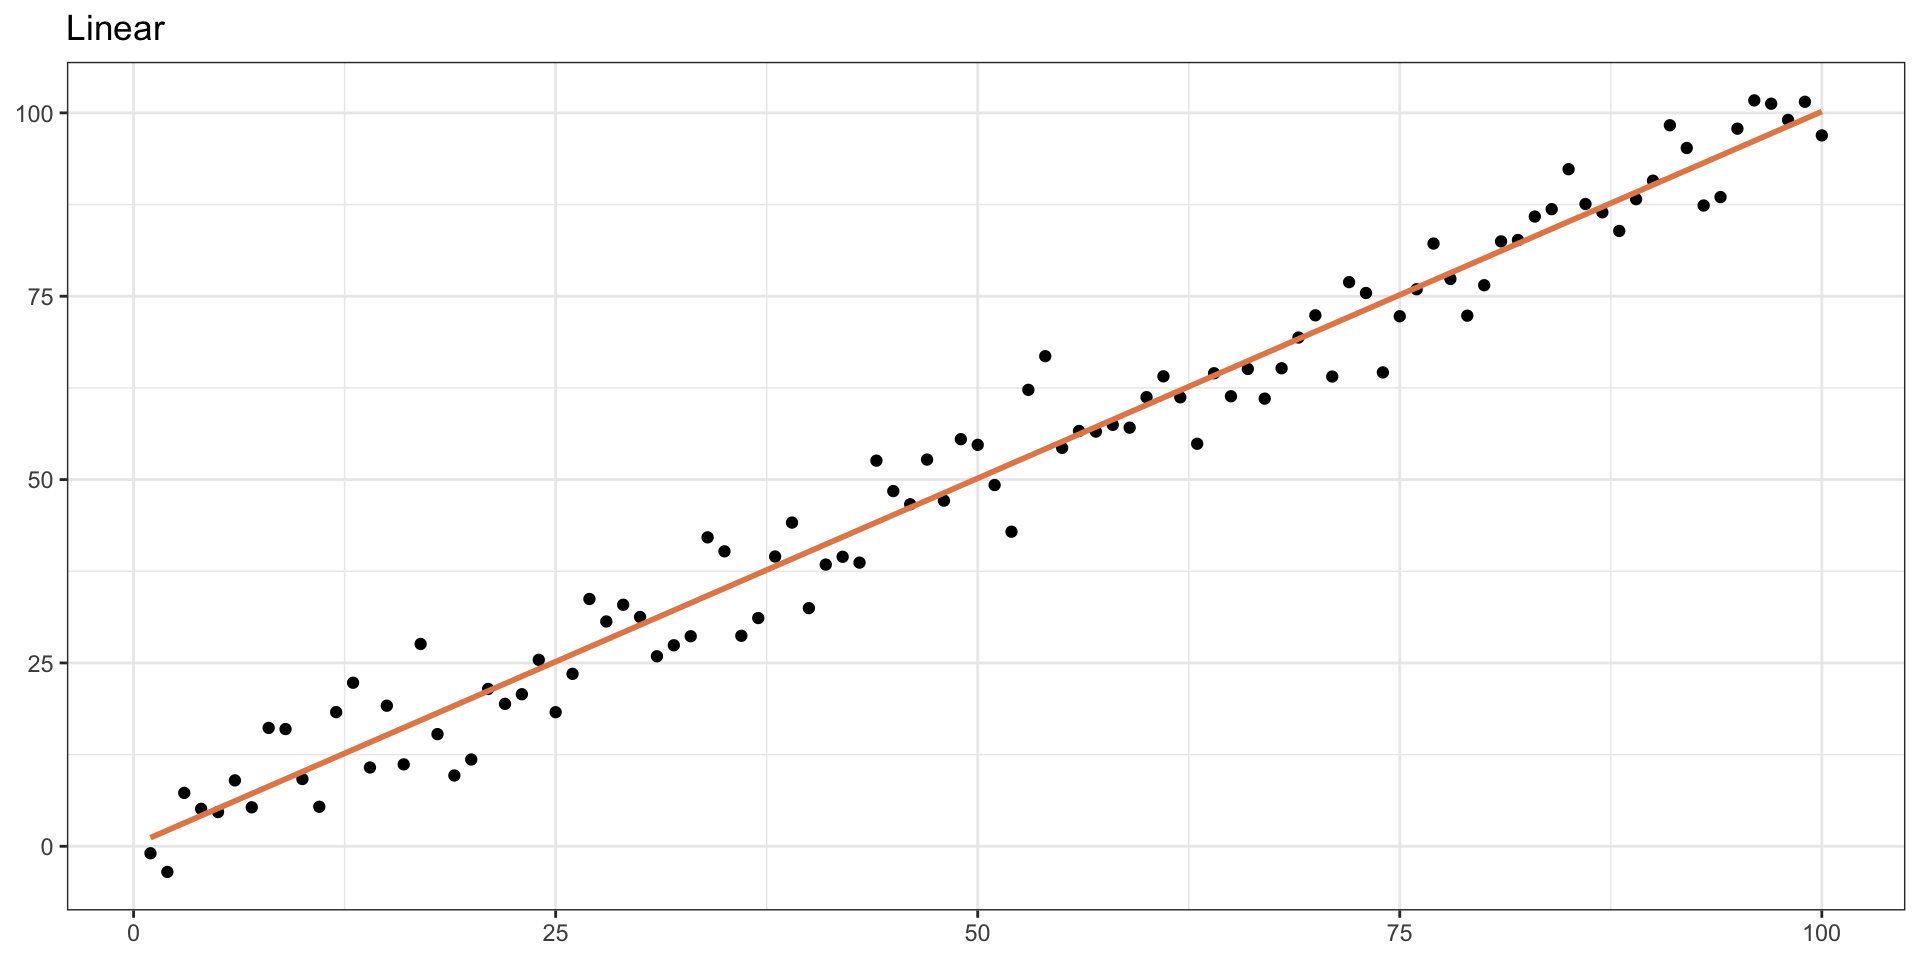
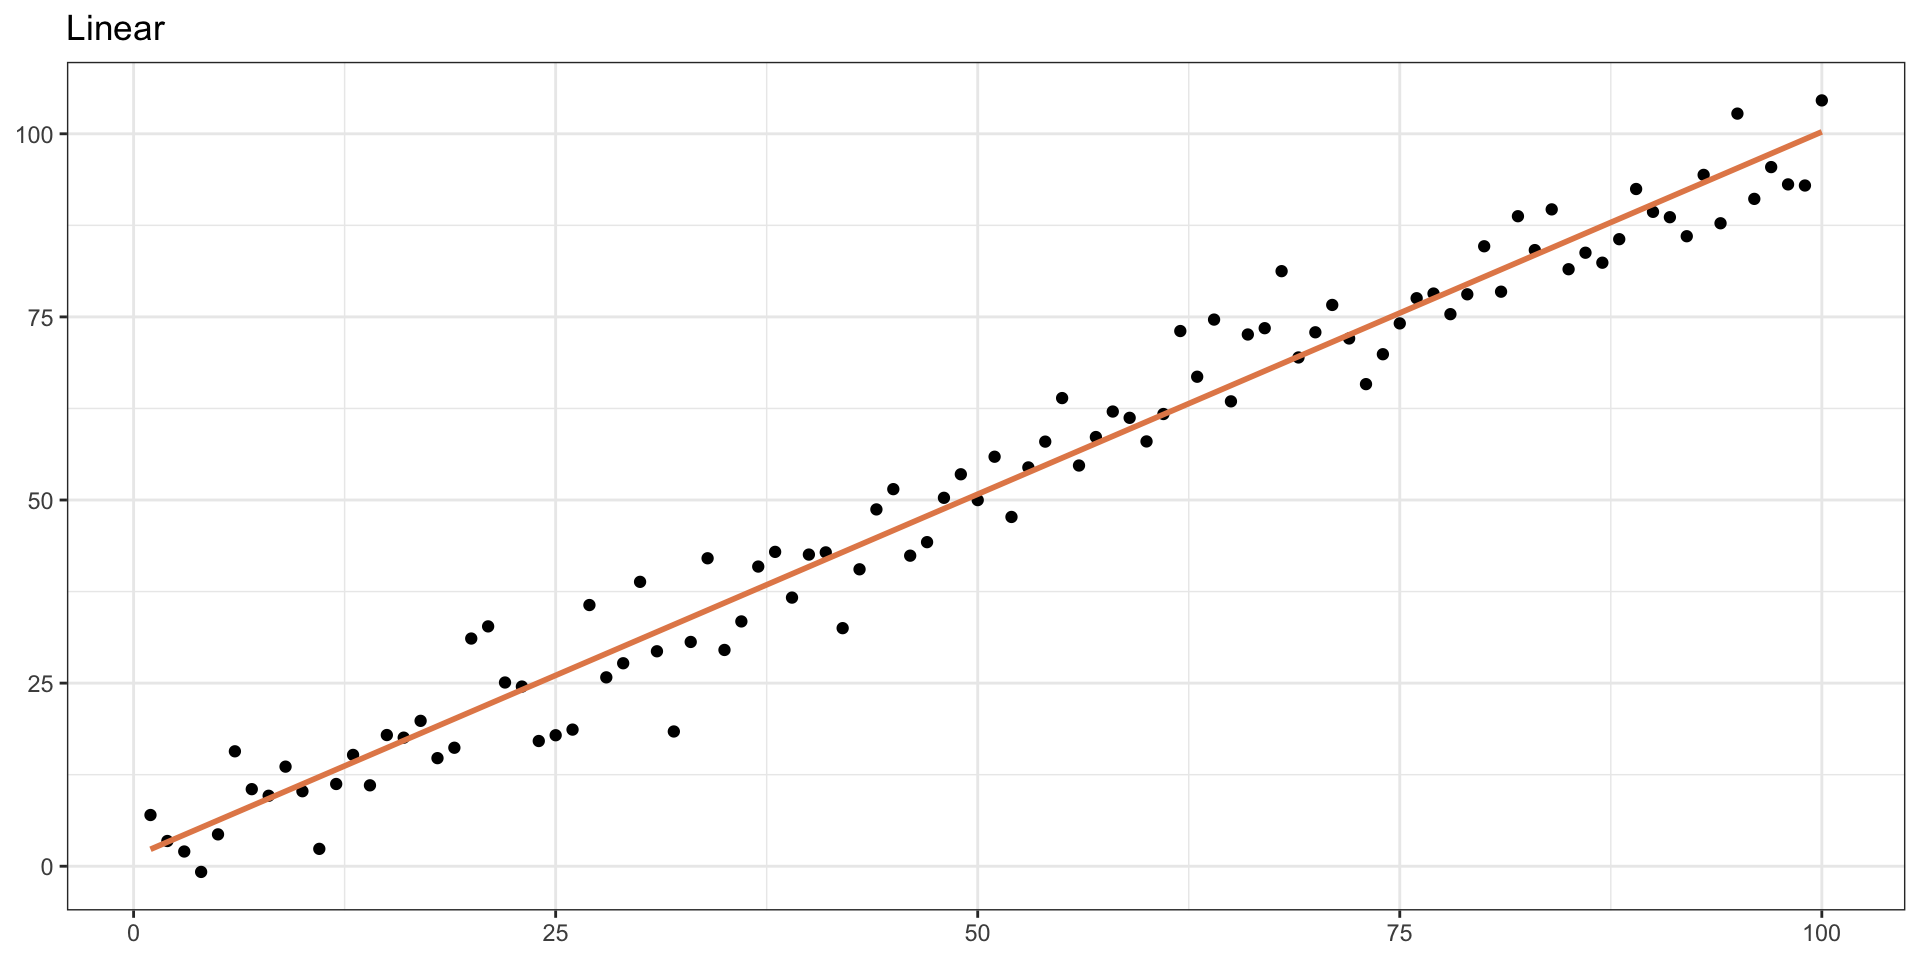
update slides 5.1

diff --git a/_site/slides/week-5.1.html b/_site/slides/week-5.1.html
@@ -305,14 +305,15 @@ $ log_wealth &lt;dbl&gt; 3.535379, 3.205507, 4.670452, 4.695477, 2.381396, 3.182
 <p><br></p>
 <p>Before fitting a model, we can quantify the strength of the relationship:</p>
 <div class="cell">
-<div class="sourceCode cell-code" id="cb5"><pre class="sourceCode numberSource r number-lines code-with-copy"><code class="sourceCode r"><span id="cb5-1"><a></a><span class="fu">cor</span>(modelData<span class="sc">$</span>log_wealth, modelData<span class="sc">$</span>lib_dem, <span class="at">use =</span> <span class="st">"complete.obs"</span>)</span></code><button title="Copy to Clipboard" class="code-copy-button"><i class="bi"></i></button></pre></div>
+<div class="sourceCode cell-code" id="cb5"><pre class="sourceCode numberSource r number-lines code-with-copy"><code class="sourceCode r"><span id="cb5-1"><a></a>r_cor <span class="ot">&lt;-</span> <span class="fu">round</span>(<span class="fu">cor</span>(modelData<span class="sc">$</span>log_wealth, modelData<span class="sc">$</span>lib_dem, <span class="at">use =</span> <span class="st">"complete.obs"</span>), <span class="dv">2</span>)</span>
+<span id="cb5-2"><a></a>r_cor</span></code><button title="Copy to Clipboard" class="code-copy-button"><i class="bi"></i></button></pre></div>
 <div class="cell-output cell-output-stdout">
-<pre><code>[1] 0.5635943</code></pre>
+<pre><code>[1] 0.56</code></pre>
 </div>
 </div>
 <p><br></p>
 <ul>
-<li class="fragment"><strong>r ≈ 0.53</strong>: moderate positive relationship</li>
+<li class="fragment"><strong>r ≈ 0.56</strong>: moderate positive relationship</li>
 <li class="fragment">r = +1 (perfect positive), 0 (none), −1 (perfect negative)</li>
 <li class="fragment">|r| &gt; 0.7: strong; 0.3–0.7: moderate; &lt; 0.3: weak</li>
 </ul>
